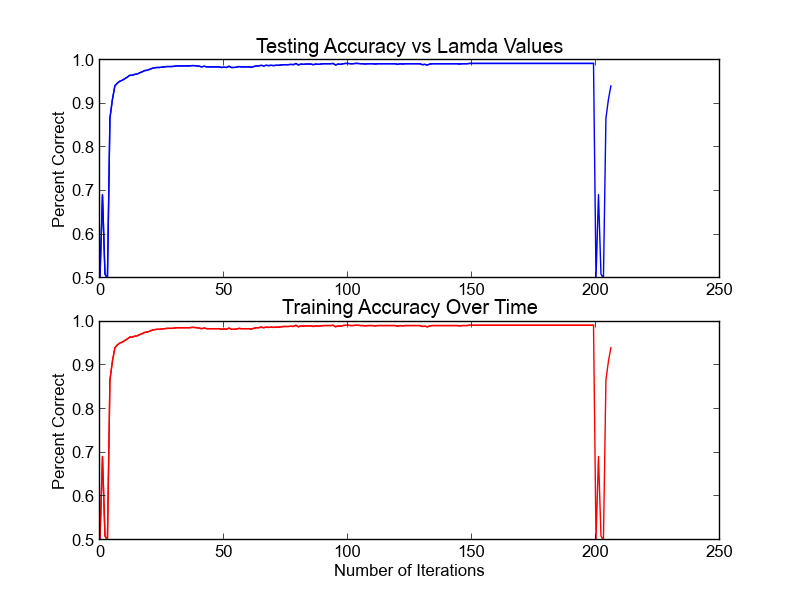
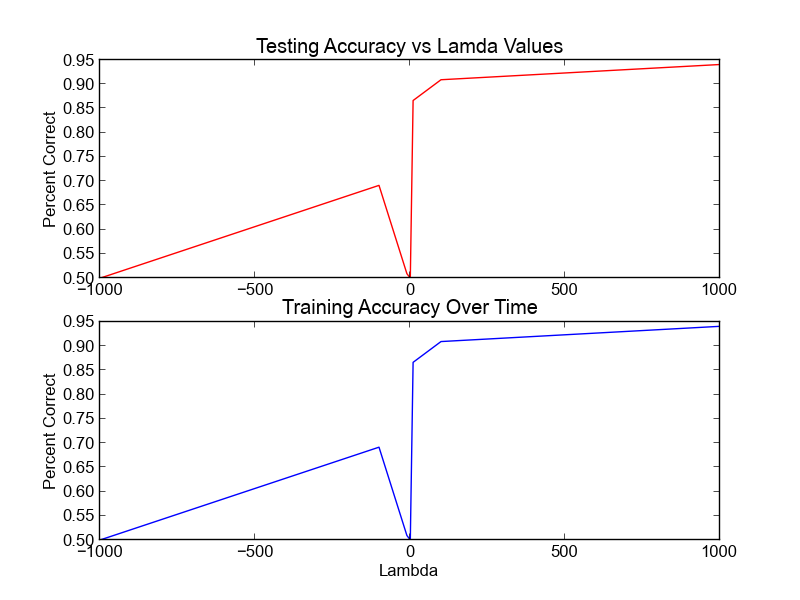
Write up Written

diff --git a/assignment2/profiler.py b/assignment2/profiler.py
@@ -93,6 +93,33 @@ class solution():
         w = w + (learning_rate * d)
         return w
 
+    def lambtrain(self, train_data, learning_rate, iterations, l):
+        # Create W and D
+        w = zeros(256)
+        while(iterations > 0):
+
+            d = zeros(256)
+            for i in range(train_data[0].shape[0]):
+                # Grab X and Y
+                x = train_data[0][i]; y = train_data[1][i]
+
+                # Calculate our guess for y
+                dot_prod = np.dot(-w.T, x)
+                denominator = np.longdouble(1 + np.exp(dot_prod))
+                y_hat = np.longdouble(1/denominator)
+                y_hat + 1/2* l * np.linalg.norm(w, 2)
+                if y_hat >= .5:
+                        y_hat = 1
+                # Find Error and computer d
+                error = y - y_hat
+                d = d + (error * x)
+
+            # Update our W based on the learning rate
+            w = w + (learning_rate * d)
+            iterations -= 1
+
+        return w
+
     def test(self, w, test_data):
         accuracy = 0
         for i in range(test_data[0].shape[0]):
@@ -139,6 +166,8 @@ if __name__ == "__main__":
                 train_acc.append(train_per)
 
 
+            plt.cla()
+            plt.clf()
             plt.subplot(211)
             plt.title("Testing Accuracy Over Time")
             plt.ylabel("Percent Correct")
@@ -152,25 +181,26 @@ if __name__ == "__main__":
             plt.savefig("./docs/training_accuracy")
 
     if verbose > 0:
+        test_acc = []; train_acc = []
         w = zeros(256)
-        for lambdas in [-1000, -100, -10, 0, 10, 100, 1000]:
-                w = sol.train(w, train_data, .0011, 170, lambdas)
+        for lambdas in [-1000, -100, -10, 1, 10, 100, 1000]:
+                w = sol.train(w, train_data, .0011, 85, lambdas)
                 test_per = sol.test(w, test_data)
                 train_per = sol.test(w, train_data)
                 test_acc.append(train_per)
                 train_acc.append(train_per)
-                print test_per, train_per
-
-
+                
+        plt.cla()
+        plt.clf()
         plt.subplot(211)
         plt.title("Testing Accuracy vs Lamda Values")
         plt.ylabel("Percent Correct")
-        plt.plot(test_acc, "b")
+        plt.plot([-1000, -100, -10, 1, 10, 100, 1000], test_acc, "r")
 
         plt.subplot(212)
         plt.title("Training Accuracy Over Time")
-        plt.xlabel("Number of Iterations")
+        plt.xlabel("Lambda")
         plt.ylabel("Percent Correct")
-        plt.plot(train_acc, "r")
+        plt.plot([-1000, -100, -10, 1, 10, 100, 1000], train_acc, "b")
         plt.savefig("./docs/lambda_accuracy.png")
 

diff --git a/assignment2/logRegress.py b/assignment2/logRegress.py
@@ -132,8 +132,7 @@ if __name__ == "__main__":
     if verbose > 0:
         min = 1000
         min_learning_rate = 0
-        for i in frange(0, .0001, .0001):
-
+        for i in frange(0, .0015, .0001):
             loss = sol.test(sol.train(train_data,i,82), test_data)
             if loss <= min:
                 min = loss

diff --git a/assignment2/README.md b/assignment2/README.md
@@ -1,0 +1,43 @@
+# Assignment 2 - Logistic Regression
+- Miles Curry **(currymi)**, Christian Armatas **(armatasc)**
+- CS434
+- Dr. Xiaoli Fern
+- Spring 2017
+
+In this assignment we used Logistic Regression to determine hand written 4's or
+hand written 9's. We did this by implementing a Batch Gradient Decent algorithm
+that trained a binary logistic regression classifier.
+
+# 1. Learning Rates And Stopping Condition
+For learning rates we determined that the optimal learning rate was **.0011**
+which produced a loss of **621.7059**.
+
+# 2. Training & Testing Accuracy Vs # of iterations
+![Iteratoin Accuracy](./docs/training_accuracy.png)
+
+Over the majority of iterations the accuracy of our tests increased to almost
+100%. At the start of the iterations we saw a sharp increase with a sharp
+decrease followed by the rapid increase to the max accuracy.
+
+# 3. L2 Regulation
+The pusdocode for the batch learning with L2 regulation is as follows:
+```
+given training examples x[0, 1, .. i] and y[0, 1, .. i] 
+w = [0, 0, ... 0]
+while(iterations > 0):
+    d = zeros(256)
+    for i in n:
+        Y-hat = (1/(1+e^(-w * x[i])) + 1/2 * lambda * ||w||2 Norm
+        error = y - y_hat
+        d = d + (error * x)
+
+    w = w + (learning_rate * d)
+```
+
+## 3.a Plot
+![Lambda Accuracy](./docs/lambda_accuracy.png)
+Plotting the percent correctness with the regulation function and values of
+lambda equalling [-10^3, -10^2, .. 10^3] we found that the percent correct
+increased as lambda increased towards zero the percent increased. As it got
+close to zero, however, the value deceased to half again. However after that the
+percent correct started to increase again.
